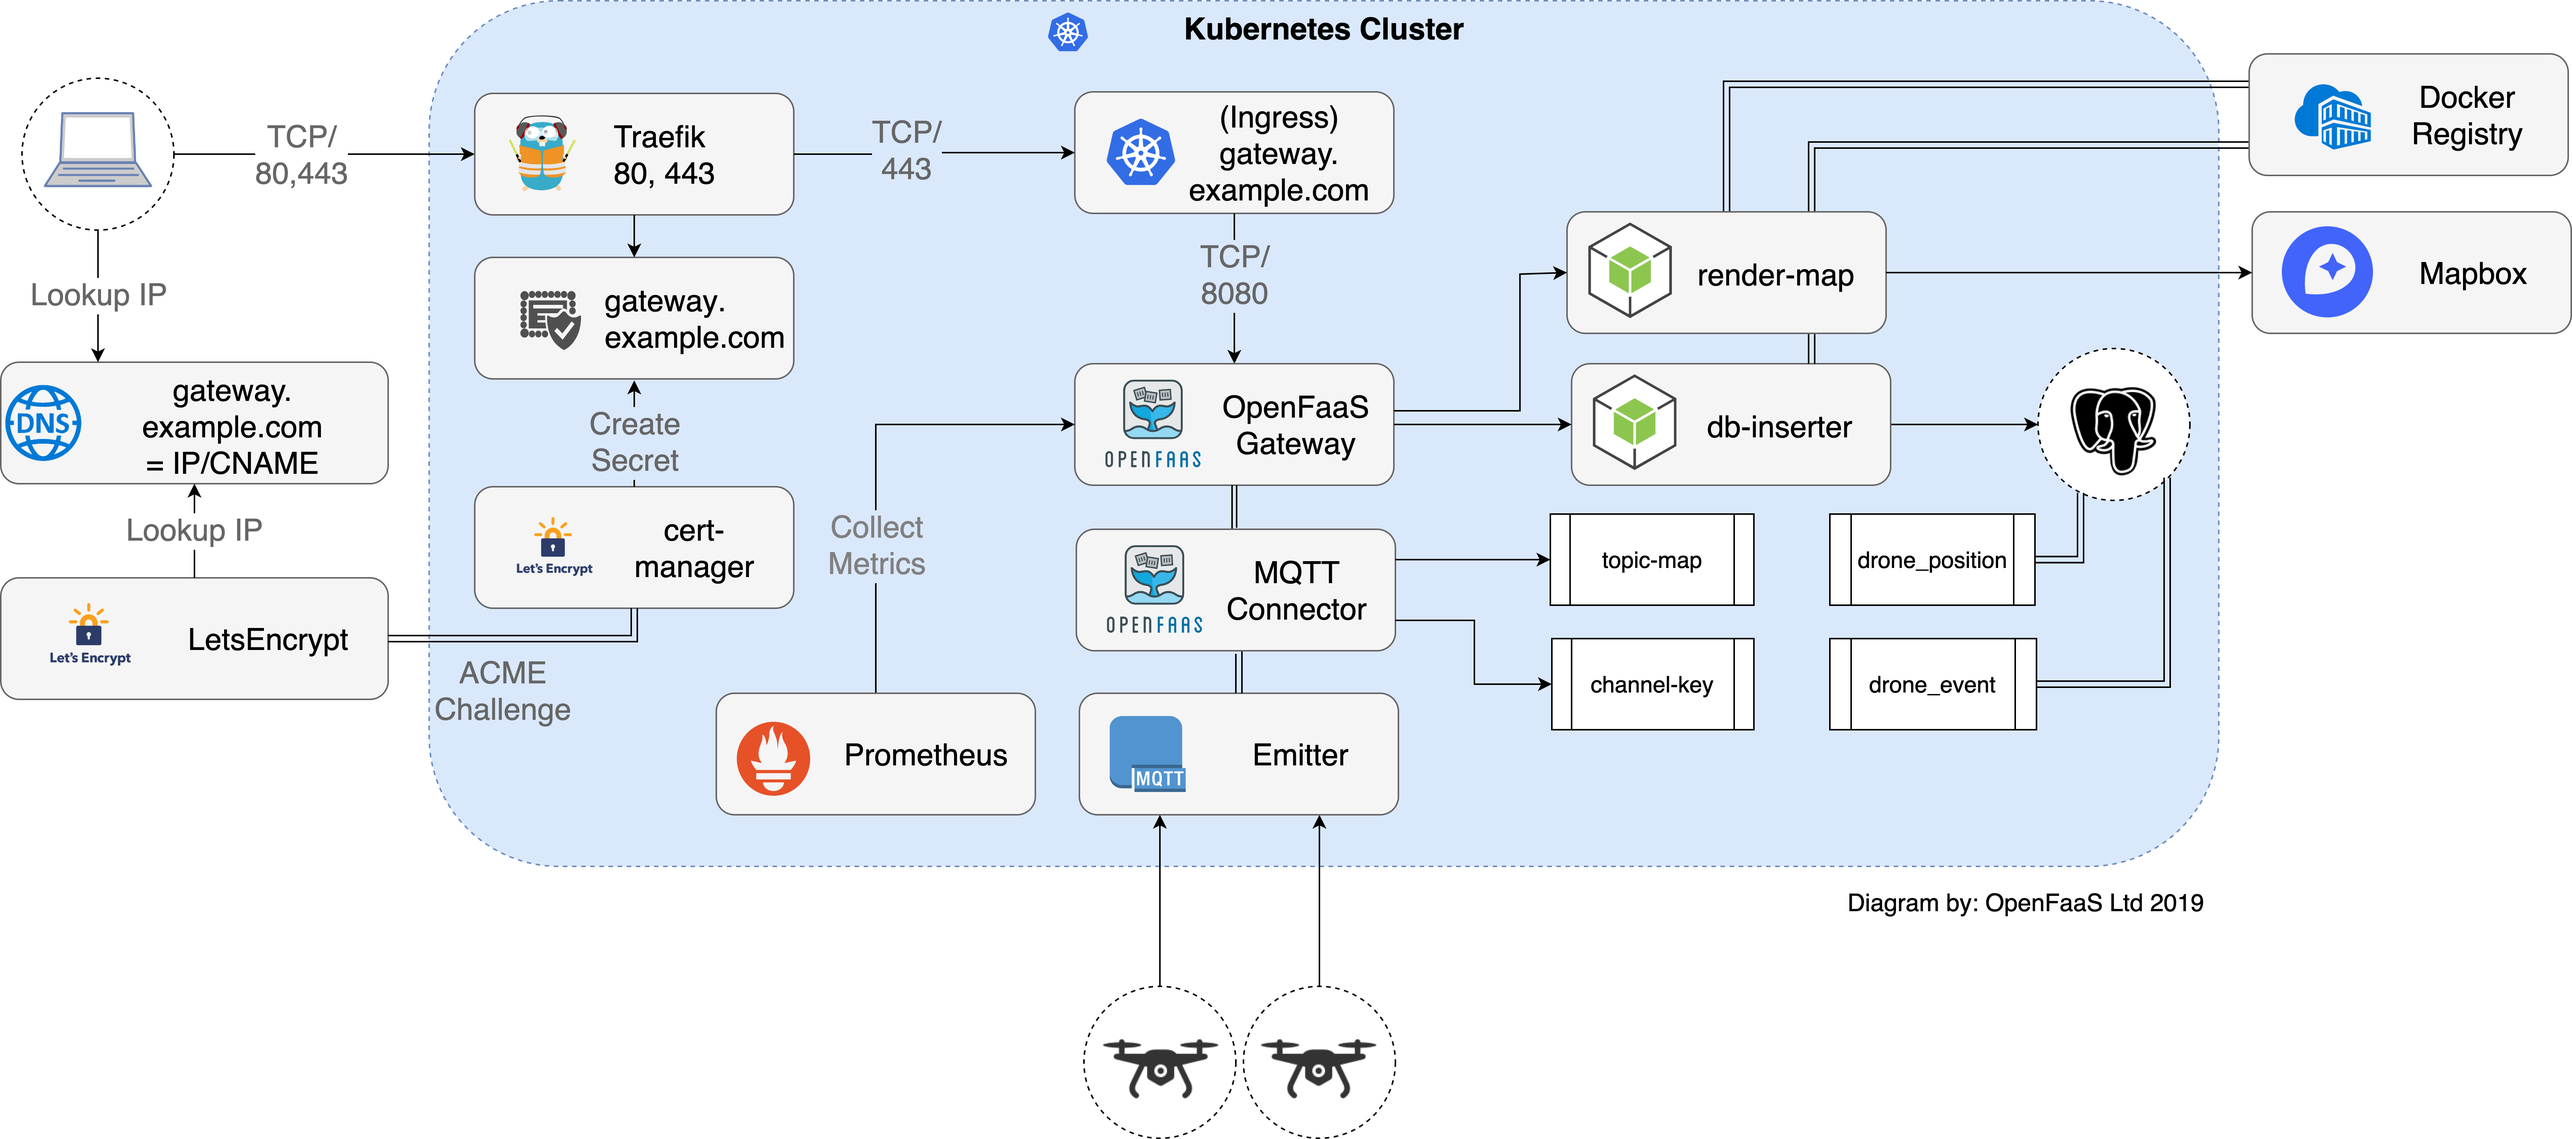
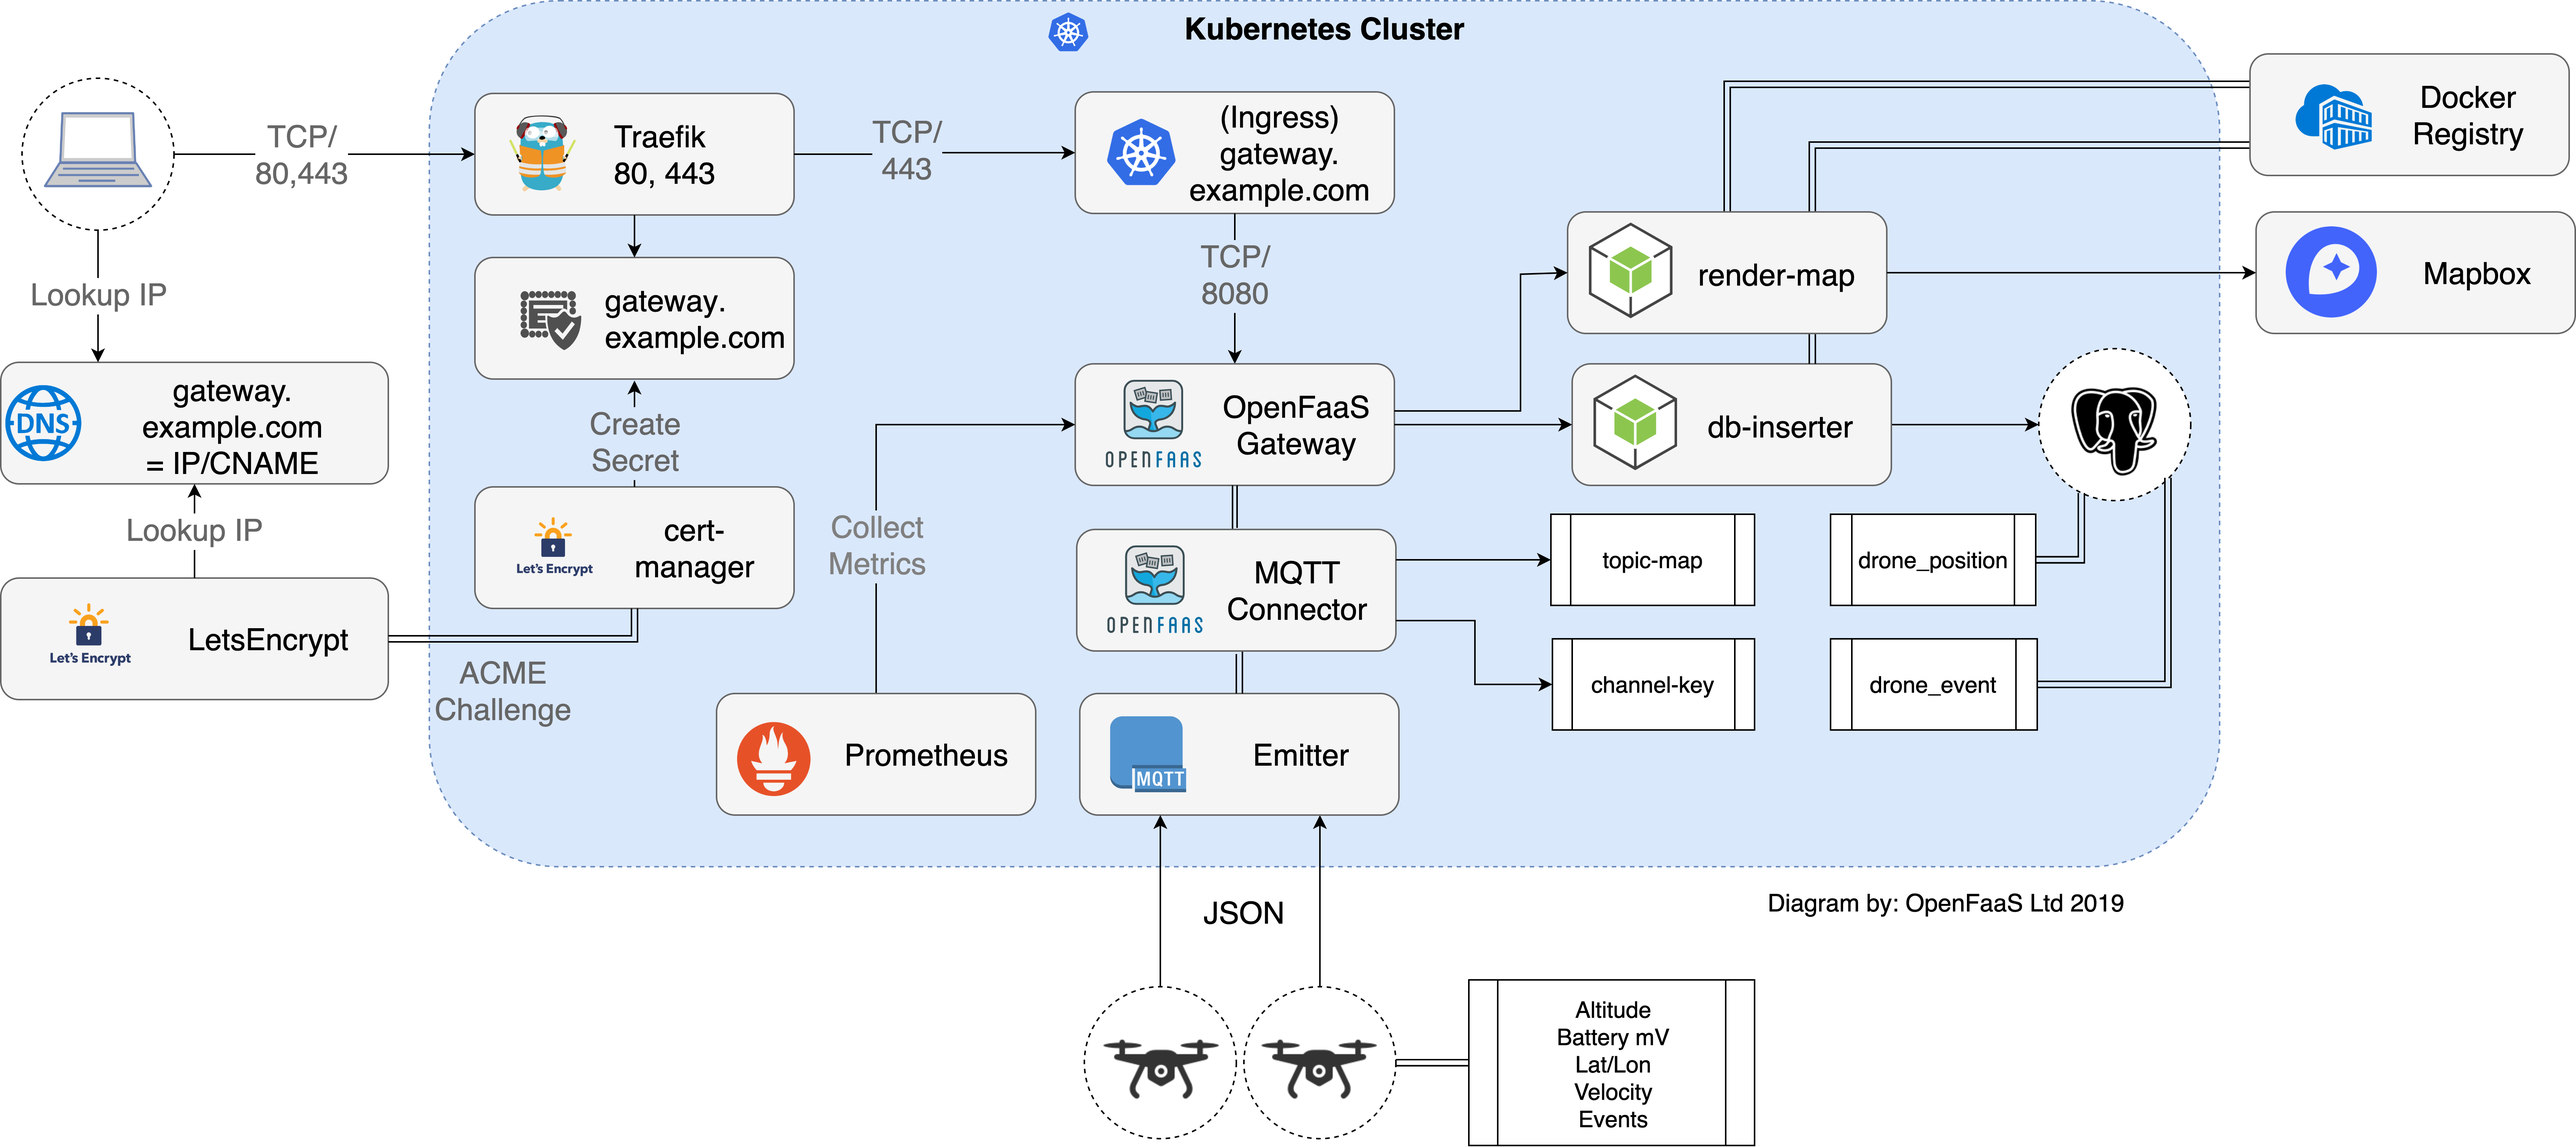
Add drone event data

diff --git a/README.md b/README.md
@@ -6,7 +6,7 @@ This workshop deploys compute, storage, networking, and an IoT application to Pa
 
 Diagram:
 
-![](/docs/images/conceptual.png)
+![Conceptual architecture](/docs/images/conceptual.png)
 
 Component parts:
 
@@ -16,6 +16,8 @@ Component parts:
 * Compute platform - [OpenFaaS](https://github.com/openfaas/faas)
 * MQTT Connector - [openfaas-incubator/mqtt-connector](https://github.com/openfaas-incubator/mqtt-connector)
 * Database/storage - [Postgresql](https://www.postgresql.org)
+* Docker registry - deployed externally, i.e. the Docker Hub.
+* Ingress Controller - Traefik or Nginx, depending on preference
 
 ## Getting started
 
